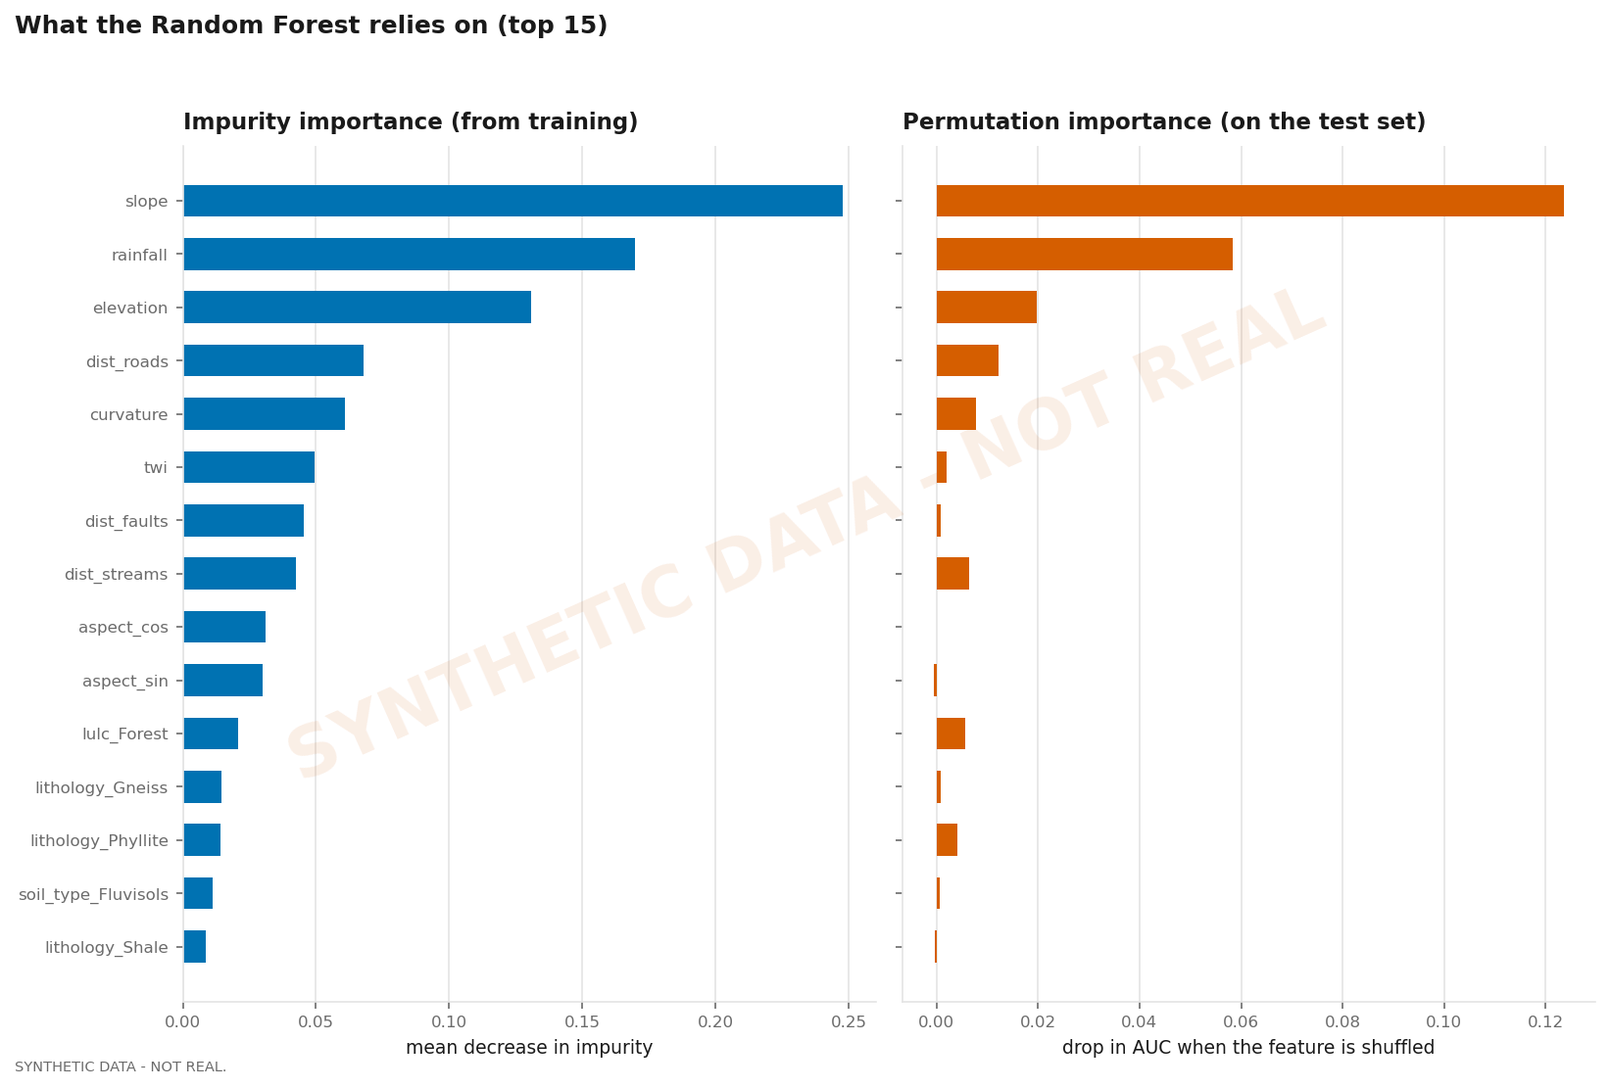
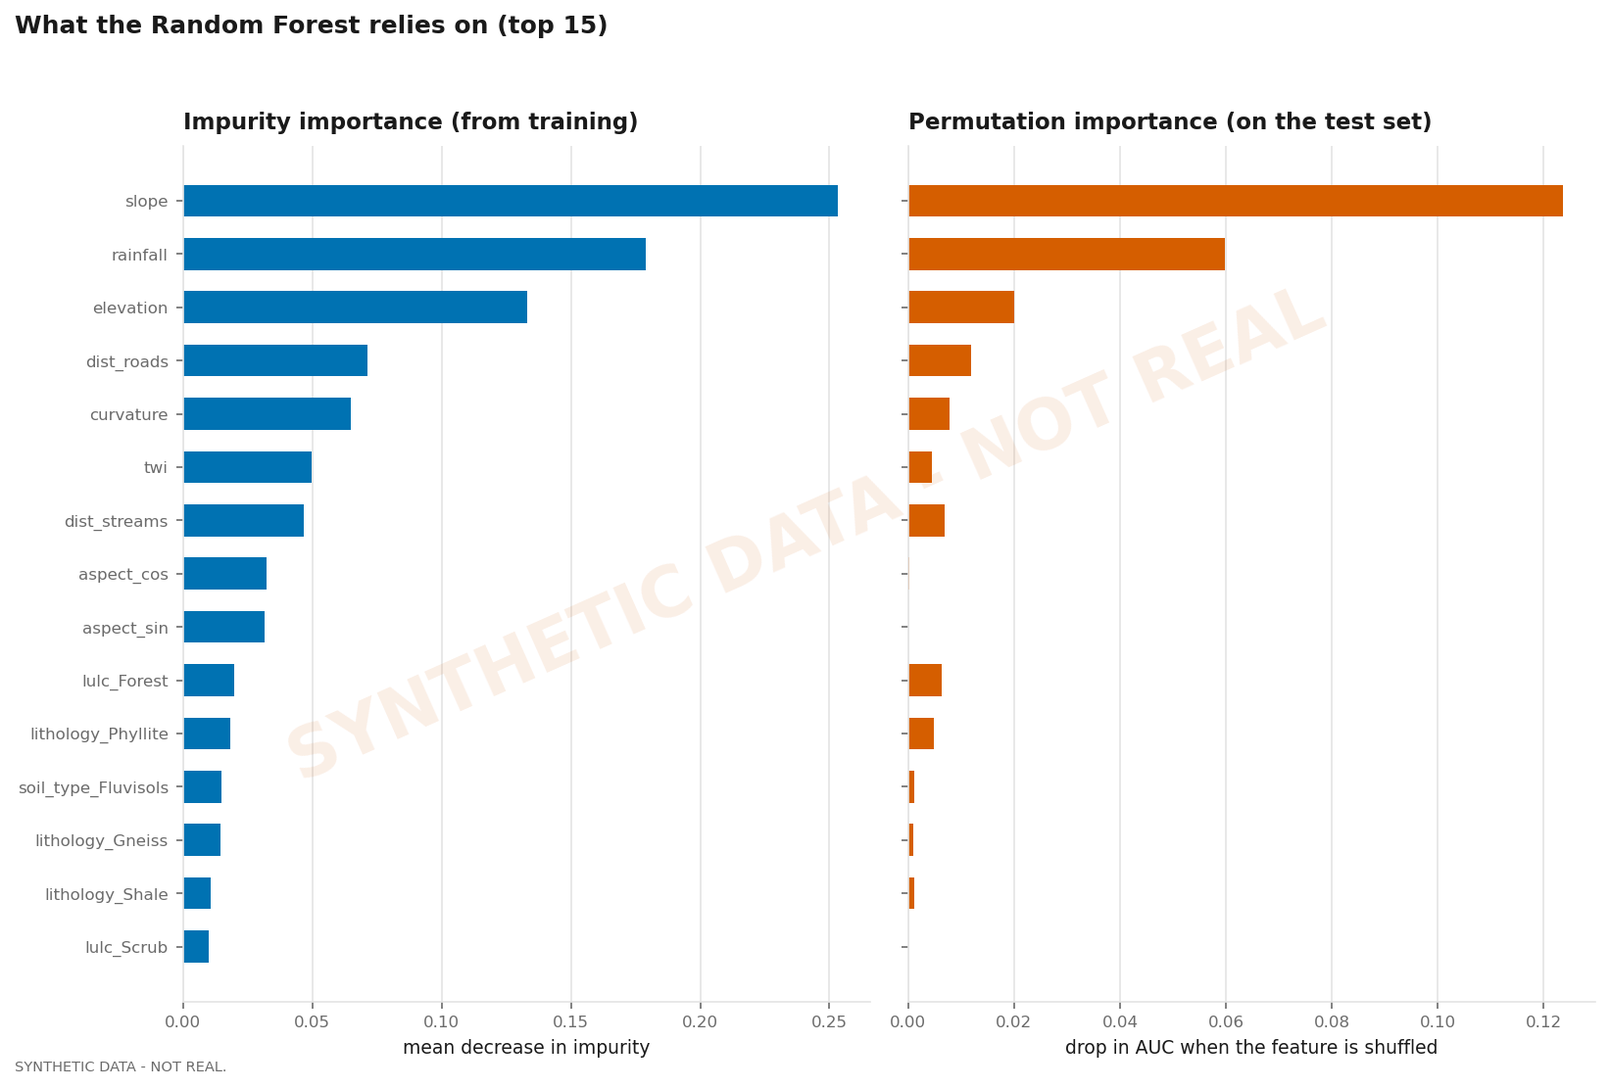
Drop dist_faults from the models and retrain on synthetic data
dist_faults joins DROPPED_COLUMNS with its reason. The only open fault
layer, GEM Global Active Faults, holds 8 faults within 50 km of the
state and misses the Main Central Thrust: every Rudraprayag cell is 56
to 127 km from a mapped fault. On a whole-state grid sample it tracks
elevation (rank correlation 0.90) and pushed elevation's VIF to 14.5,
so Step 4 would have dropped elevation instead. The raster and CSV
column are still produced; restore it if GSI fault lines arrive.

Synthetic retrain, 29 features: SVM test AUC 0.8577, RF 0.8862, gap
+0.0284 (95% interval +0.0140 to +0.0430); highest VIF 5.65, no drops.

Also corrects the note on lulc_Tree cover: with Tree cover as the
reference that column does not exist, and no land-cover column goes
above VIF 4.7.

diff --git a/src/config.py b/src/config.py
@@ -107,7 +107,15 @@ FEATURE_UNITS = {
 # this dict, so the drop is applied consistently in EDA, training, the
 # dashboard and the map. Never delete a column in one script only.
 #   Example: DROPPED_COLUMNS = {"soil_type": "No soil map at usable resolution"}
-DROPPED_COLUMNS: dict[str, str] = {}
+DROPPED_COLUMNS: dict[str, str] = {
+    "dist_faults": (
+        "GEM Global Active Faults holds only 8 faults within 50 km of Uttarakhand and misses the Main "
+        "Central Thrust, so every cell in Rudraprayag is 56 to 127 km from a mapped fault. On a "
+        "whole-state grid sample it tracks elevation (rank correlation 0.90) and pushed elevation's VIF "
+        "to 14.5, so Step 4 would have dropped elevation instead. Dropped 14 September 2026; restore it "
+        "if GSI structural lines arrive from Bhukosh."
+    ),
+}
 
 assert set(SCHEMA_COLUMNS) == {TARGET, *NUMERIC_FEATURES, *CATEGORICAL_FEATURES}, "schema lists out of sync"
 assert set(DROPPED_COLUMNS) <= set(NUMERIC_FEATURES + CATEGORICAL_FEATURES), "can only drop feature columns"

diff --git a/PROJECT_HANDOFF.md b/PROJECT_HANDOFF.md
@@ -198,7 +198,7 @@ Grid: **11,123 × 10,135 cells, 30 m, EPSG:32644, extent 170670 to 504360 E, 317
 
 ### Models, `models\` (trained on synthetic data)
 
-`svm_model.pkl` (373 KB), `rf_model.pkl` (8.8 MB), `scaler.pkl`, `feature_names.json` (30 features, including `twi` since 14 September), `metadata.json` (every section written by Steps 4 to 7, including `data_source: synthetic`).
+`svm_model.pkl` (373 KB), `rf_model.pkl` (8.8 MB), `scaler.pkl`, `feature_names.json` (29 features: `twi` added and `dist_faults` dropped on 14 September), `metadata.json` (every section written by Steps 4 to 7, including `data_source: synthetic`).
 
 ---
 
@@ -300,6 +300,7 @@ If there is still no GSI data, **digitise landslide scars for Rudraprayag by han
 | Synthetic data until the real CSV | Steps 3 to 7 finished and tested early; switching is one line |
 | Seed 42 everywhere | reproducibility |
 | TWI added to the schema, TRI left out (14 September, user's decision on measured evidence) | whole state: TWI rank correlation with slope -0.51, VIF 1.64; TRI rank correlation with slope 0.993, VIF 21.2. Both used by Chauhan et al. (2025) |
+| `dist_faults` dropped from the models (14 September, user's decision) | GEM holds 8 faults within 50 km and misses the Main Central Thrust (Rudraprayag cells 56 to 127 km from a mapped fault); on a whole-state grid sample it tracks elevation (rank correlation 0.90, elevation VIF 14.5), so Step 4 would have dropped elevation instead. Raster and CSV column still produced; restore if GSI fault lines arrive |
 | Risk zones at fixed breaks 0.2, 0.4, 0.6, 0.8 | natural breaks and quantiles are recomputed per map, so a zone would mean different scores on different runs and models; quantiles force 20 percent into every zone |
 | Zone colours: one vermillion hue, light to dark | ordered classes need a sequential ramp, not green to red (fails colour-blind readers); matches the landslide colour in every figure; validated as an ordinal ramp (light end 2.19:1 on the basemap) |
 | Water cells skipped on the map | models never saw water (Step 2e and Step 4), so any score there would be invented |
@@ -311,25 +312,31 @@ If there is still no GSI data, **digitise landslide scars for Rudraprayag by han
 
 ### Preprocessing
 
-Retrained 14 September after adding TWI. 3,600 rows in, 5 water rows dropped, 3,595 used. Missing filled: twi 8 and rainfall 17 (median), soil_type 64, lithology 39 (most frequent). 3 categorical columns to 20 dummies; **30 features**; **no VIF drops** (highest lithology_Phyllite 5.86). Split: train 2,516 (836 landslide), test 1,079 (359 landslide). SMOTE on training: 1,680 / 836 to 1,680 / 1,680. Test untouched: 720 / 359.
+Retrained 14 September after adding TWI and dropping dist_faults. 3,600 rows in, 5 water rows dropped, 3,595 used. Missing filled: twi 8 and rainfall 17 (median), soil_type 64, lithology 39 (most frequent). 3 categorical columns to 20 dummies; **29 features** (twi in, dist_faults out); **no VIF drops** (highest lithology_Phyllite 5.65). Split: train 2,516 (836 landslide), test 1,079 (359 landslide). SMOTE on training: 1,680 / 836 to 1,680 / 1,680. Test untouched: 720 / 359.
 
 ### Models
 
 | | SVM (RBF) | Random Forest |
 |---|---|---|
-| Best parameters | C=10, gamma=0.01 | max_depth 10, n_estimators 200, min_samples_split 2 |
-| CV AUC | 0.8653 | 0.8956 |
-| **Test AUC** | 0.8554 | **0.8827** |
-| Average precision | 0.7235 | 0.7814 |
-| Accuracy / precision / recall / F1 at 0.5 | 0.769 / 0.627 / 0.755 / 0.685 | 0.789 / 0.649 / 0.794 / 0.714 |
-| Landslides missed | 88 of 359 | 74 of 359 |
-| Youden threshold | 0.34 (recall 0.866) | 0.46 (recall 0.847) |
+| Best parameters | C=10, gamma=0.01 | max_depth 10, n_estimators 200, min_samples_split 5 |
+| CV AUC | 0.8673 | 0.8928 |
+| **Test AUC** | 0.8577 | **0.8862** |
+| Average precision | 0.7286 | 0.7936 |
+| Accuracy / precision / recall / F1 at 0.5 | 0.767 / 0.622 / 0.760 / 0.684 | 0.783 / 0.643 / 0.783 / 0.706 |
+| Landslides missed | 86 of 359 | 78 of 359 |
+| Youden threshold | 0.38 (recall 0.852) | 0.38 (recall 0.891) |
 
-Linear SVM test AUC 0.8409, so RBF beats linear by **+0.0145**, just past the 0.01 the verdict treats as meaningful (before TWI it was +0.0090). RF minus SVM AUC: **+0.0271**, bootstrap 95 percent interval **+0.0137 to +0.0416** (separable).
+Linear SVM test AUC 0.8416 (C=100), so RBF beats linear by **+0.0161**. RF minus SVM AUC: **+0.0284**, bootstrap 95 percent interval **+0.0140 to +0.0430** (separable).
 
-RF top features (impurity / permutation): slope 0.2478 / 0.1236, rainfall 0.1699 / 0.0584, elevation 0.1310 / 0.0197, dist_roads 0.0677 / 0.0123, curvature 0.0610 / 0.0079. twi ranks 6th of 30 by impurity (0.0493) and 9th by permutation (0.0020). In the synthetic data twi barely separates the classes (point-biserial r 0.03): the simulated wetness effect is small next to slope, so this says nothing about real data.
+RF top features (impurity / permutation): slope 0.2531 / 0.1236, rainfall 0.1788 / 0.0598, elevation 0.1332 / 0.0201, dist_roads 0.0713 / 0.0120, curvature 0.0648 / 0.0079. twi ranks 6th of 29 by impurity and 9th by permutation. In the synthetic data twi barely separates the classes (point-biserial r 0.03): the simulated wetness effect is small next to slope, so this says nothing about real data.
 
-Before TWI (29 features, for the record): SVM test 0.8304, RF 0.8682, gap +0.0379 (+0.0234 to +0.0529).
+How the synthetic results moved on 14 September (seed 42 throughout; adding twi regenerated the synthetic CSV, the later runs reuse it):
+
+| Run | Features | SVM test AUC | RF test AUC | RF minus SVM (95% interval) |
+|---|---|---|---|---|
+| Original | 29 | 0.8304 | 0.8682 | +0.0379 (+0.0234 to +0.0529) |
+| twi added | 30 | 0.8554 | 0.8827 | +0.0271 (+0.0137 to +0.0416) |
+| twi added, dist_faults dropped | 29 | 0.8577 | 0.8862 | +0.0284 (+0.0140 to +0.0430) |
 
 ---
 
@@ -362,8 +369,8 @@ Before TWI (29 features, for the record): SVM test 0.8304, RF 0.8682, gap +0.037
 - **Lithology** missing, needs Bhukosh.
 - **`dist_faults` is weak**: only 4.8 percent of the state within 5 km of a fault, 61 percent beyond 50 km. It behaves like a regional gradient and could act as a disguised location. Replace with GSI structural lines if possible; if it ranks suspiciously high on real data, drop it via `DROPPED_COLUMNS`. Measured 14 September: every cell in Rudraprayag is 55.7 to 127.1 km from the nearest GEM fault (median 96.3 km), even though the Main Central Thrust crosses the district, because GEM holds active faults only. **Full real-feature VIF on a whole-state grid sample (14 September):**
   - Elevation is 14.5, above the threshold, because it tracks `dist_faults` (rank correlation 0.90). Without `dist_faults` elevation falls to 7.8.
-  - Step 4's rule would drop elevation, the wrong column. Decide before the real run whether to drop `dist_faults` through `DROPPED_COLUMNS`.
-  - `lulc_Tree cover` (10.1) is only high because Step 4 uses the first class alphabetically as the reference; with the most common class as the reference it falls well below 10.
+  - Step 4's rule would have dropped elevation, the wrong column. **Resolved 14 September: `dist_faults` is in `DROPPED_COLUMNS`.**
+  - `lulc_Tree cover` (10.1) is only high because Step 4 uses the first class alphabetically as the reference; with the most common class (Tree cover) as the reference, that column disappears and no land-cover column goes above 4.7.
   - TWI is 1.73.
 - **Random train/test split** ignores spatial autocorrelation, so scores are likely optimistic; stated in the evaluation report.
 - **Stable points mean "no recorded landslide"**, not "cannot fail"; stated in the evaluation report.
@@ -383,7 +390,7 @@ PROJECT_CRS = 'EPSG:32644'            GEOGRAPHIC_CRS = 'EPSG:4326'    DEM_RESOLU
 N_JOBS = -1                           PRIMARY_CV_METRIC = 'roc_auc'
 DEMO_DISTRICT = 'Rudraprayag'         RISK_ZONES = ['Very Low', 'Low', 'Moderate', 'High', 'Very High']
 RISK_ZONE_BREAKS = [0.2, 0.4, 0.6, 0.8]   # fixed equal breaks; config.risk_zone(score) names the zone
-DROPPED_COLUMNS = {}
+DROPPED_COLUMNS = {'dist_faults': 'GEM layer misses the Main Central Thrust; tracks elevation (rank r 0.90); dropped 14 Sep'}
 SVM_RBF_PARAM_GRID = {'C': [0.1, 1, 10, 100], 'gamma': [1, 0.1, 0.01, 0.001]}
 SVM_LINEAR_PARAM_GRID = {'C': [0.1, 1, 10, 100]}
 RF_PARAM_GRID = {'n_estimators': [100, 200, 300], 'max_depth': [None, 10, 20], 'min_samples_split': [2, 5, 10]}
@@ -406,10 +413,10 @@ python -m src.check_dem              # 14 tiles, 14 Copernicus, all checks passe
 python -m src.check_layers           # 11 layers aligned (twi included), nothing missing; exit 0
 python -m src.make_synthetic         # 3,600 rows, 1,200 landslide, 2,400 stable
 python -m src.eda                    # 5 figures + outputs/eda_report.txt
-python -m src.preprocess             # 30 features, SMOTE 1,680/1,680, test 720/359
-python -m src.train_svm              # RBF CV 0.8653, test 0.8554
-python -m src.train_rf               # CV 0.8956, test 0.8827
-python -m src.evaluate               # RF wins, interval +0.0137 to +0.0416
+python -m src.preprocess             # 29 features, SMOTE 1,680/1,680, test 720/359
+python -m src.train_svm              # RBF CV 0.8673, test 0.8577
+python -m src.train_rf               # CV 0.8928, test 0.8862
+python -m src.evaluate               # RF wins, interval +0.0140 to +0.0430
 python -m src.demo_map               # 2,145,236 cells scored, about 20 s, map in outputs/
 streamlit run dashboard/app.py       # four pages at http://localhost:8501
 git status -sb                       # clean, main...origin/main
@@ -428,7 +435,7 @@ git status -sb                       # clean, main...origin/main
 5. **Day 10, about 25 September: inventory decision** (GSI, or hand-digitised Rudraprayag).
 5a. **Done 14 September: TWI added to the schema at the user's request.** Recommended on measured evidence (whole state: VIF 1.64, rank correlation with slope -0.51); TRI not (rank correlation 0.993 with slope, VIF 21.2). The whole-state TWI rehearsal output was copied unchanged to `data/processed/twi.tif`; `state_tri.tif` stayed in the session scratchpad. Steps are in `docs/02_qgis_processing.md` under "TWI and TRI rasters". Updated: config, check_layers, eda, make_synthetic, demo_map, dashboard, the 2f table, README and the data log; Steps 3 to 7 and the Rudraprayag RF map rerun on synthetic data.
 6. **User: 2d to 2g** (landslide points, stable points, extraction, export), then `python -m src.label_categories`.
-7. Drop any column that cannot be produced (`lithology`, possibly `dist_faults`) through `DROPPED_COLUMNS`, and record why.
+7. Drop any column that cannot be produced (`lithology`, if Bhukosh never delivers) through `DROPPED_COLUMNS`, and record why. `dist_faults` was dropped on 14 September; restore it if GSI fault lines arrive.
 8. Set `DEFAULT_DATA_SOURCE = 'real'`, rerun Steps 3 to 7, then Step 9 on real models.
 9. Report and viva preparation; keep `docs/PROJECT_STATUS.md` current.
 

diff --git a/docs/PROJECT_STATUS.md b/docs/PROJECT_STATUS.md
@@ -58,7 +58,7 @@ All on one grid: 11,123 × 10,135 cells, 30 m, EPSG:32644.
 | twi | 1.30 to 32.63 | r.watershed topographic index, multiple flow direction; added 14 September |
 | dist_roads | 0 to 100,360 m | 27,312 OSM segments, 10 km border margin |
 | dist_streams | 0 to 111,522 m | r.watershed threshold 1,000 cells |
-| dist_faults | 0 to 275,434 m | 8 GEM faults; weak factor |
+| dist_faults | 0 to 275,434 m | 8 GEM faults; weak factor; **dropped from the models 14 September** (raster kept) |
 | lulc | codes 10 to 100 | Mode resampling |
 | soil | codes 0 to 29 | nearest neighbour; code 0 = no soil |
 | rainfall | 390 to 2,520 mm over the grid, 506 to 2,519 inside the state | CHIRPS mean 2009 to 2024, bilinear |
@@ -67,13 +67,13 @@ All on one grid: 11,123 × 10,135 cells, 30 m, EPSG:32644.
 
 | | SVM (RBF) | Random Forest |
 |---|---|---|
-| Best parameters | C=10, gamma=0.01 | depth 10, 200 trees, min split 2 |
-| CV AUC | 0.8653 | 0.8956 |
-| **Test AUC** | 0.8554 | **0.8827** |
-| Recall at 0.5 | 0.755 | 0.794 |
-| Landslides missed | 88 of 359 | 74 of 359 |
+| Best parameters | C=10, gamma=0.01 | depth 10, 200 trees, min split 5 |
+| CV AUC | 0.8673 | 0.8928 |
+| **Test AUC** | 0.8577 | **0.8862** |
+| Recall at 0.5 | 0.760 | 0.783 |
+| Landslides missed | 86 of 359 | 78 of 359 |
 
-Retrained 14 September with 30 features (TWI added). RF wins by 0.0271 AUC (bootstrap 95% interval +0.0137 to +0.0416). RBF beats linear SVM by +0.0145. twi ranks 6th of 30 in RF impurity importance, 9th by permutation. Before TWI: SVM 0.8304, RF 0.8682.
+Retrained 14 September with 29 features (TWI added, dist_faults dropped). RF wins by 0.0284 AUC (bootstrap 95% interval +0.0140 to +0.0430). RBF beats linear SVM by +0.0161. twi ranks 6th of 29 in RF impurity importance, 9th by permutation. Earlier today: original SVM 0.8304, RF 0.8682; with TWI added, SVM 0.8554, RF 0.8827.
 
 ## 5. Data status
 
@@ -90,8 +90,8 @@ Retrained 14 September with 30 features (TWI added). RF wins by 0.0271 AUC (boot
 - **VIF on the full real feature set** (whole-state grid sample of 588,997 cells, 14 September; lithology not included). All values below are VIF:
   - **TWI 1.73.**
   - **Elevation 14.5**, above 10, because it tracks `dist_faults`: rank correlation **0.90**. Without `dist_faults`, elevation falls to 7.8.
-  - `lulc_Tree cover` 10.1 is an encoding effect. With the most common class as the reference instead of the first alphabetically, it falls well below 10.
-  - **Step 4's rule would drop elevation, the wrong column.** Decide before the real run: drop `dist_faults` through `DROPPED_COLUMNS` (weak GEM layer, a regional trend), or get GSI fault lines. Optionally make Step 4 use the most common class as the reference.
+  - `lulc_Tree cover` 10.1 is an encoding effect. With the most common class (Tree cover) as the reference instead of the first alphabetically, that column disappears and no land-cover column goes above 4.7.
+  - **Step 4's rule would have dropped elevation, the wrong column.** Resolved on 14 September at the user's request: `dist_faults` is in `DROPPED_COLUMNS`; restore it if GSI fault lines arrive.
   - Caveat: Step 4 computes VIF on sample points, not grid cells, so real Step 4 values will differ.
 - `dist_faults` is weak (4.8% of the state within 5 km of a fault, 61% beyond 50 km) and could act as a disguised location; review its importance on real data. **Measured 14 September: inside Rudraprayag the nearest GEM fault is 55.7 to 127.1 km away (median 96.3 km)**, although the Main Central Thrust crosses the district; GEM lists active faults only. In the demo district the layer is a regional gradient, not a fault proximity. GSI structural lines from Bhukosh would fix this; otherwise drop it through `DROPPED_COLUMNS`.
 - `data/processed/` holds about 3.8 GB, much of it intermediates; cleanup needs the user's go-ahead.

diff --git a/docs/data_sources_log.md b/docs/data_sources_log.md
@@ -12,7 +12,7 @@ When a fallback replaces a primary source, say so in Notes.
 | landslide inventory | NASA Global Landslide Catalog via HDX | `landslides/global_landslide_catalog_NASA.shp` (3.6 MB) | point events, 1970-2019 | 12 Sep 2026 | CC BY | PROVISIONAL. 11,033 records worldwide, 205 inside Uttarakhand, of which only 85 have location accuracy of 5 km or better. Replace with the GSI inventory when Bhukosh access arrives |
 | land cover | ESA WorldCover 2021 v200 | `lulc/ESA_WorldCover_10m_2021_v200_*.tif` (5 tiles, 451 MB) | 10 m, 11 classes | 12 Sep 2026 | CC BY 4.0 | Fallback for Bhuvan LULC 250K (order plus MoU pending) |
 | soil | SoilGrids WRB MostProbable (ISRIC), server-side clip | `soil/soilgrids_wrb_mostprobable.tif` (0.45 MB), `soil/soilgrids_wrb_legend.json` | 250 m | 12 Sep 2026 | CC BY 4.0 | 1715x1360 cells covering the state. Inside the state after warping to the DEM grid (14 Sep 2026): Cambisols 45.4%, Luvisols 21.1%, Leptosols 17.4%, code 0 11.3%, Fluvisols 2.2%, Cryosols 2.1%, Chernozems 0.3%. CORRECTION: code 0 was earlier reported as Acrisols. It is SoilGrids fill where no soil is predicted (median elevation 5,224 m, 89% above 4,500 m), so src/label_categories.py labels it No soil (rock or ice) |
-| faults | GEM Global Active Faults | `geology/gem_active_faults_harmonized.geojson` (10.6 MB) | global compilation | 12 Sep 2026 | CC BY-SA 4.0 | WEAK: only 4 fault lines cross Uttarakhand, all unnamed. Distance-to-fault built from these is close to a broad trend surface. Replace with GSI structural data if Bhukosh access arrives |
+| faults | GEM Global Active Faults | `geology/gem_active_faults_harmonized.geojson` (10.6 MB) | global compilation | 12 Sep 2026 | CC BY-SA 4.0 | WEAK: only 4 fault lines cross Uttarakhand, all unnamed. Distance-to-fault built from these is close to a broad trend surface. Replace with GSI structural data if Bhukosh access arrives. **Dropped from the models on 14 Sep 2026** through `DROPPED_COLUMNS`: nearest mapped fault 56 to 127 km from every Rudraprayag cell (the Main Central Thrust is missing), and rank correlation 0.90 with elevation on a whole-state grid sample |
 | rainfall | CHIRPS v2.0 annual totals, UCSB Climate Hazards Center, `python -m src.get_open_data rainfall` | `rainfall/chirps-v2.0.2009.tif` to `chirps-v2.0.2024.tif` (16 files, 880 MB). 2005 to 2008 were also downloaded, then deleted once excluded | 0.05 degree, about 5.5 km | 14 Sep 2026 | free to use; cite Funk et al. 2015, Scientific Data 2, 150066 | Mean of 16 years (2009-2024). 2005-2008 excluded: 42.7% below the later years, spatial match only r = 0.52, and 2009, a national drought year, scores above all four. Built as `data/processed/rainfall.tif` on 14 Sep 2026 and verified: inside the state median 1,448 mm, range 506 to 2,519 mm, no NoData; `rain_mean.tif` matches an independent 2009-2024 mean exactly. Chosen over IMD because IMD has 80 grid points inside Uttarakhand against 2,000 CHIRPS cells |
 | TWI (derived) | Computed from `data/processed/dem.tif` (Copernicus GLO-30) with GRASS `r.watershed`, topographic index output; multiple flow direction, convergence 5, disk swap, memory 3000, 30 m region from dem. Run headless on 14 Sep 2026 and copied into place unchanged | output `data/processed/twi.tif` (448 MB, Float64, DEFLATE, NoData NaN) | 30 m | 14 Sep 2026 | as the DEM | Whole state 1.30 to 32.63, median 5.6; NoData on 0.12% of cells inside the state, all on the border rim; 527 s. Rank correlation with slope -0.51, VIF 1.64. TRI was built the same day and rejected: rank correlation 0.993 with slope, VIF 21.2 |
 | lithology | not yet downloaded | | | | | Needs Bhukosh. The only conditioning factor with no usable open substitute |

diff --git a/docs/literature_review.md b/docs/literature_review.md
@@ -81,7 +81,7 @@ Open access, published 12 January 2025. Read from the article's full text on 14 
 | Metrics | AUC; sensitivity, specificity, accuracy, precision, F1 at one threshold | AUC as headline, average precision, all metrics at 0.5 and at the Youden threshold |
 | Susceptibility zones | Natural breaks, recomputed per model | Fixed breaks at 0.2, 0.4, 0.6, 0.8, identical for both models, so zone areas compare directly |
 | Map extent | Whole state | Rudraprayag district for Phase 2, with measured prediction time and a projection for the state (whole-state mapping is Phase 3) |
-| Factors | 16 | 12 in the schema: 11 built including TWI (added 14 September 2026), lithology pending. Not included: geomorphons, soil moisture, NDVI, TRI (TRI measured and rejected) |
+| Factors | 16 | 12 in the schema: 11 built including TWI (added 14 September 2026), lithology pending. Not included: geomorphons, soil moisture, NDVI, TRI (TRI measured and rejected). Distance to faults is built but dropped from the models: the only open fault layer (GEM) misses the Main Central Thrust |
 | Data | IMD rainfall, Esri land cover, GSI geology and soil; ArcGIS Pro, SAGA, R | Copernicus GLO-30 DEM, CHIRPS 2009 to 2024, ESA WorldCover, SoilGrids, OpenStreetMap, GEM faults; QGIS and Python |
 | Reproducibility | No data or code released | Public repository, every step scripted or documented click by click, locked environment, seed 42 |
 | Data checks reported | None | SRTM voids of 766 km2 (switched to Copernicus); a 42.7% step change in CHIRPS before 2009; SoilGrids code 0 is rock and ice, not a soil; GEM faults miss the Main Central Thrust in Rudraprayag; per-map report of inputs outside the training range |

diff --git a/README.md b/README.md
@@ -131,7 +131,9 @@ All column names, paths, the random seed (42) and hyperparameter grids live in [
 
 If a column cannot be produced from real data, it is added to `DROPPED_COLUMNS` in `src/config.py` with the reason, and listed here. Every script reads that setting, so the drop applies everywhere at once.
 
-None so far.
+| Column | Dropped | Reason |
+|---|---|---|
+| `dist_faults` | 14 September 2026 | The only open fault layer, GEM Global Active Faults, holds 8 faults within 50 km of the state and misses the Main Central Thrust: every cell in Rudraprayag is 56 to 127 km from a mapped fault. On a whole-state grid sample it tracks elevation (rank correlation 0.90) and pushes elevation's VIF to 14.5. Restore it if GSI structural lines arrive from Bhukosh. The raster and the CSV column are still produced; the models ignore them |
 
 ## Switching to real data
 
